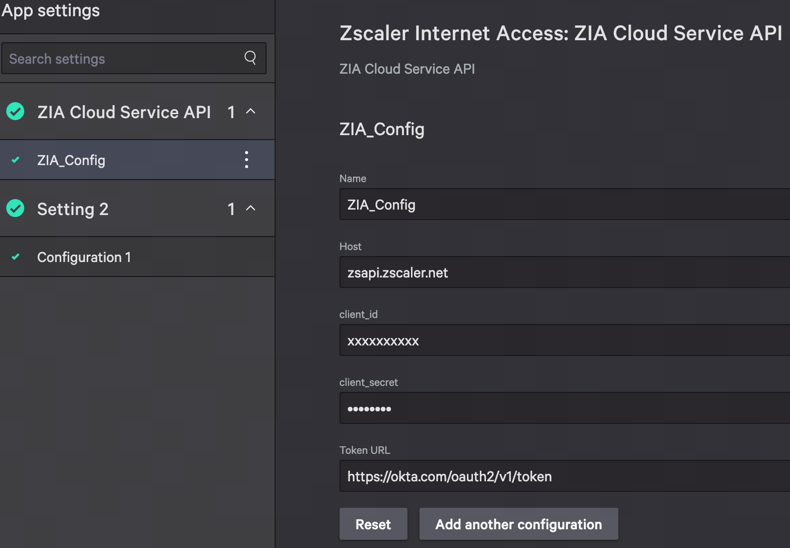
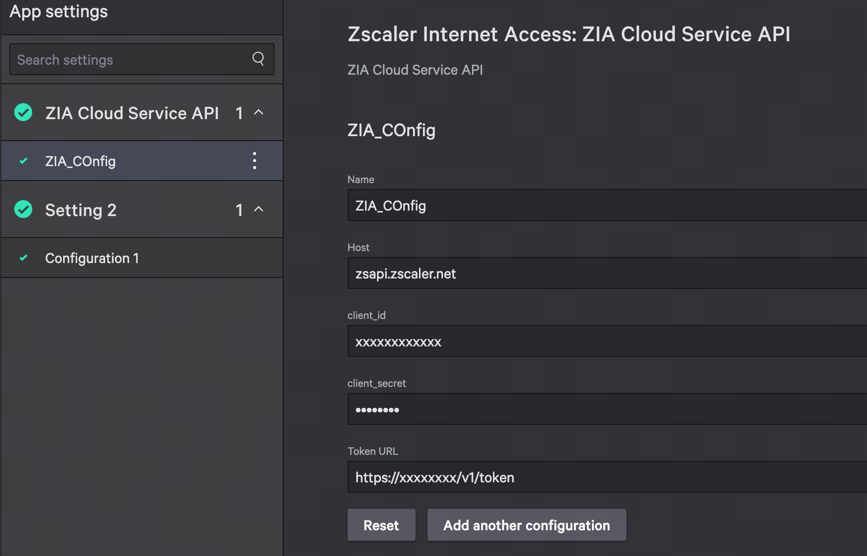
update images to dark theme

diff --git a/app_docs/README.md b/app_docs/README.md
@@ -35,15 +35,13 @@ When you install this app, you will be prompted for app configuration. Your conf
     * **client_secret**: Your Zscaler client secret
     * **token URL**: Your Zscaler cloud OAuth token endpoint URL
 
-      **Example**:
-      ![Example](images/apiSettings.png)
+![Example](images/apiSettings.png)
 
 * (Workflow) 'Falcon-Zscaler Integration' configuration:
     * **UrlCategoryConfiguredName**: The name of your custom ZIA URL category (e.g., "CrowdStrike Intel - Foundry")
     * **Quantity**: Maximum number of URLs to process. Controls pagination - the  **iterations** function divides this by 100 to process URLs in batches (e.g., quantity of 500 creates 5 batches: offsets values [0, 100, 200, 300, 400])
 
-      **Example**:
-      ![Example](images/workflowSetting.png)
+![Example](images/workflowSetting.png)
 
 > [!TIP]
 > The custom URL category name must match exactly (case-sensitive) with the category you created in Zscaler.
